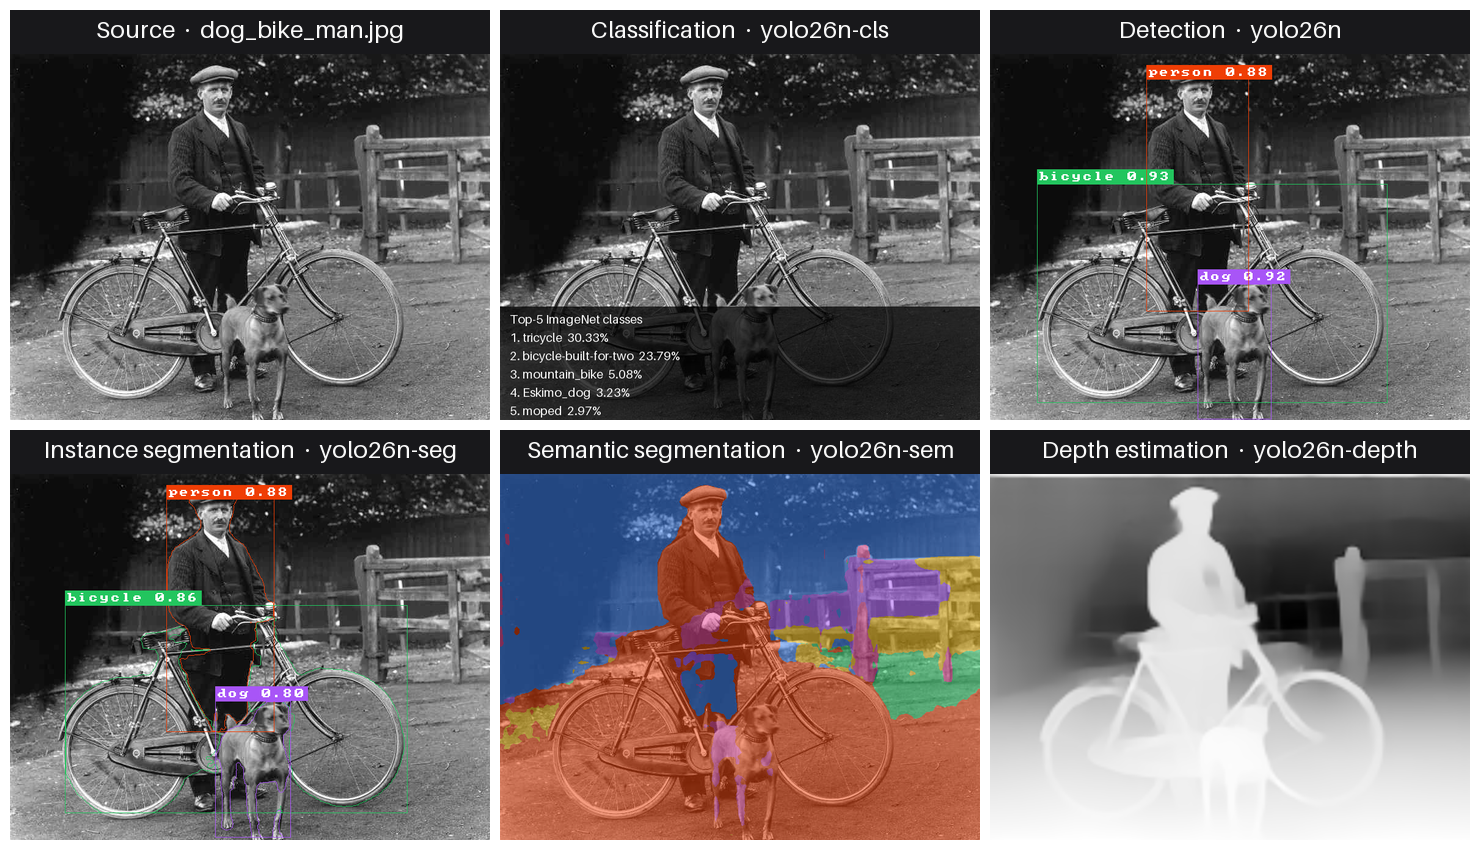
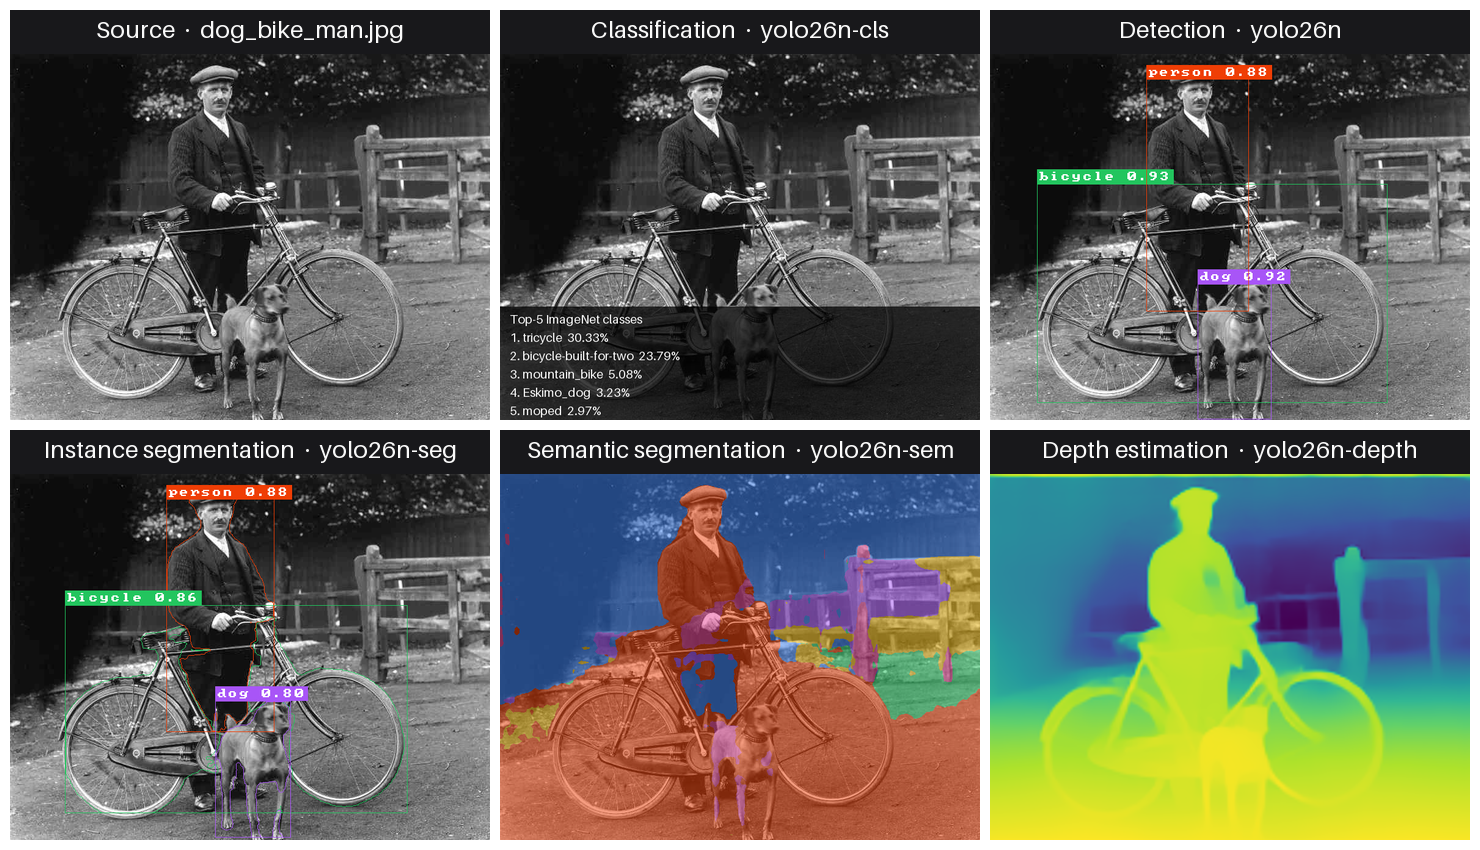
viridis

Changed region(s): [[0.6527, 0.5506, 0.9946, 1.0]]

diff --git a/src/lib.rs b/src/lib.rs
@@ -3569,11 +3569,12 @@ pub fn annotate_semantic(image: &DynamicImage, mask: &SemanticMask) -> DynamicIm
     DynamicImage::ImageRgb8(output)
 }
 
-/// Render a source-space depth map as a grayscale image.
+/// Render a source-space depth map with the viridis colormap.
 ///
-/// Nearer pixels are brighter: the map's own minimum maps to white and its maximum to black
-/// (a flat map renders uniform white; non-finite pixels render black). The source image is
-/// not blended in — depth carries no class identity to overlay.
+/// Nearer pixels map toward yellow and farther pixels toward dark purple: the map's own
+/// minimum maps to `t = 1` and its maximum to `t = 0` (a flat map renders uniform yellow;
+/// non-finite pixels render black). The source image is not blended in — depth carries no
+/// class identity to overlay.
 pub fn annotate_depth(map: &DepthMap) -> DynamicImage {
     let stats = map.stats();
     let span = (stats.max - stats.min).max(f32::EPSILON);
@@ -3581,18 +3582,46 @@ pub fn annotate_depth(map: &DepthMap) -> DynamicImage {
     for y in 0..map.height {
         for x in 0..map.width {
             let value = map.data[y as usize * map.width as usize + x as usize];
-            // Nearer (smaller) depths are brighter; clamp guards non-finite inputs.
-            let shade = if value.is_finite() {
-                ((1.0 - (value - stats.min) / span) * 255.0)
-                    .round()
-                    .clamp(0.0, 255.0) as u8
+            // Nearer (smaller) depths lean yellow; clamp guards non-finite inputs.
+            let color = if value.is_finite() {
+                viridis(1.0 - (value - stats.min) / span)
             } else {
-                0
+                Rgb([0, 0, 0])
             };
-            output.put_pixel(x, y, Rgb([shade, shade, shade]));
+            output.put_pixel(x, y, color);
         }
     }
     DynamicImage::ImageRgb8(output)
+}
+
+/// Viridis colormap: perceptually uniform purple-to-teal-to-yellow.
+///
+/// `t` is clamped to `[0, 1]` and linearly interpolated between nine stops.
+fn viridis(t: f32) -> Rgb<u8> {
+    const STOPS: [[u8; 3]; 9] = [
+        [68, 1, 84],
+        [72, 40, 120],
+        [62, 83, 160],
+        [49, 120, 157],
+        [38, 153, 158],
+        [50, 183, 148],
+        [97, 209, 107],
+        [173, 226, 44],
+        [253, 231, 37],
+    ];
+    let t = t.clamp(0.0, 1.0);
+    let position = t * (STOPS.len() - 1) as f32;
+    let low = position.floor() as usize;
+    let high = (low + 1).min(STOPS.len() - 1);
+    let fraction = position - low as f32;
+    Rgb([
+        (f32::from(STOPS[low][0])
+            + (f32::from(STOPS[high][0]) - f32::from(STOPS[low][0])) * fraction) as u8,
+        (f32::from(STOPS[low][1])
+            + (f32::from(STOPS[high][1]) - f32::from(STOPS[low][1])) * fraction) as u8,
+        (f32::from(STOPS[low][2])
+            + (f32::from(STOPS[high][2]) - f32::from(STOPS[low][2])) * fraction) as u8,
+    ])
 }
 
 /// Stroke the boundary pixels of a source-space boolean mask.

diff --git a/tests/integration.rs b/tests/integration.rs
@@ -436,8 +436,8 @@ fn renderers_preserve_source_geometry_and_public_result_schema() {
     assert_eq!(depth.stats().mean, 2.5);
     let rendered = annotate_depth(&depth).to_rgb8();
     assert_eq!(rendered.dimensions(), (10, 10));
-    // A flat map renders uniform white (min maps to white).
-    assert_eq!(*rendered.get_pixel(5, 5), Rgb([255, 255, 255]));
+    // A flat map renders uniform viridis yellow (min maps to t = 1).
+    assert_eq!(*rendered.get_pixel(5, 5), Rgb([253, 231, 37]));
     assert_eq!(
         *source.to_rgb8().get_pixel(5, 5),
         black,
